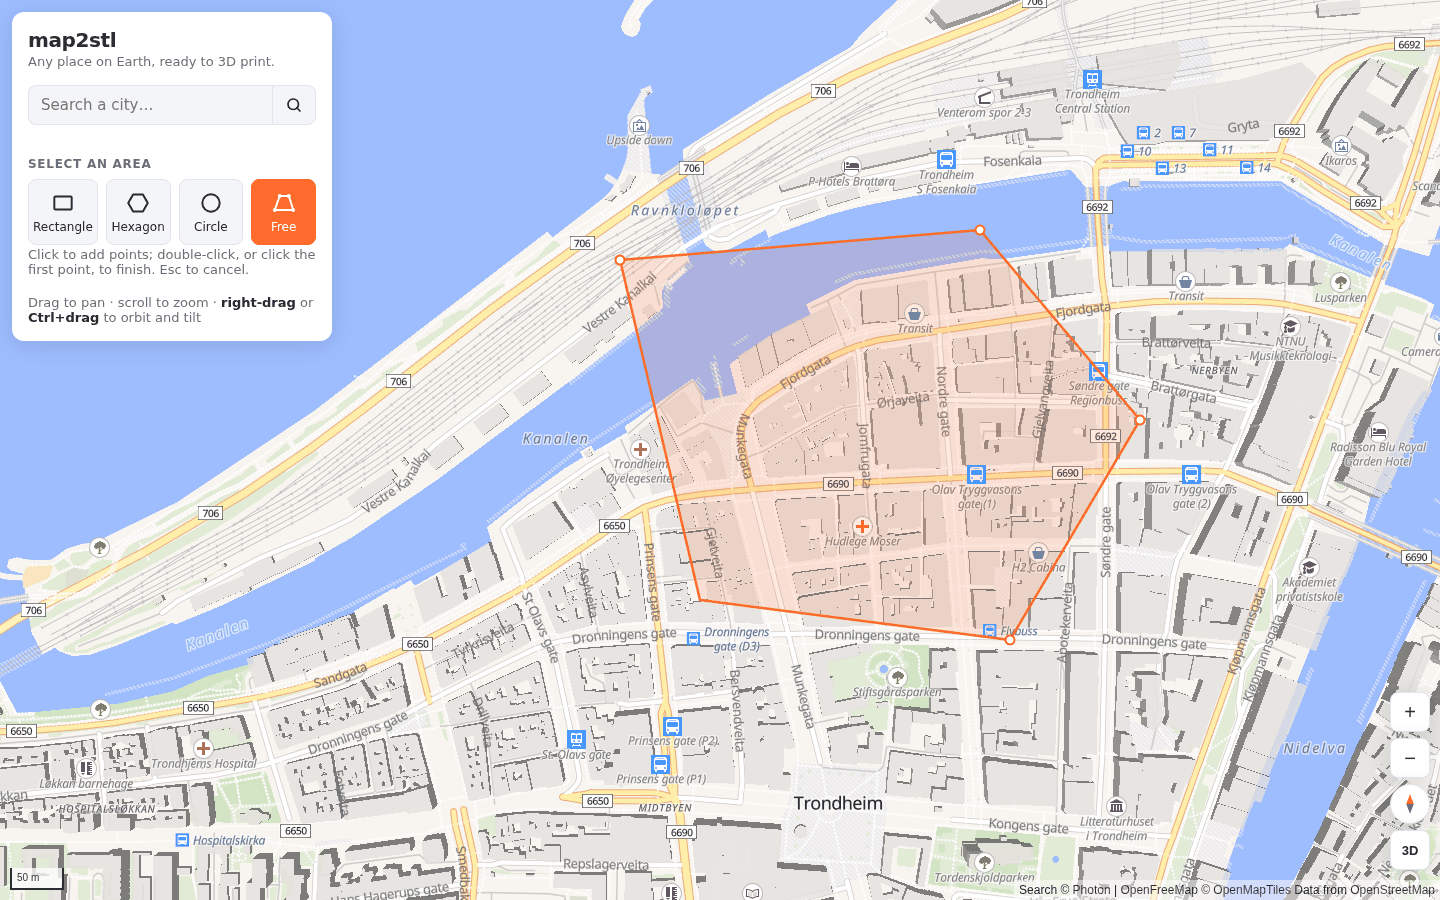
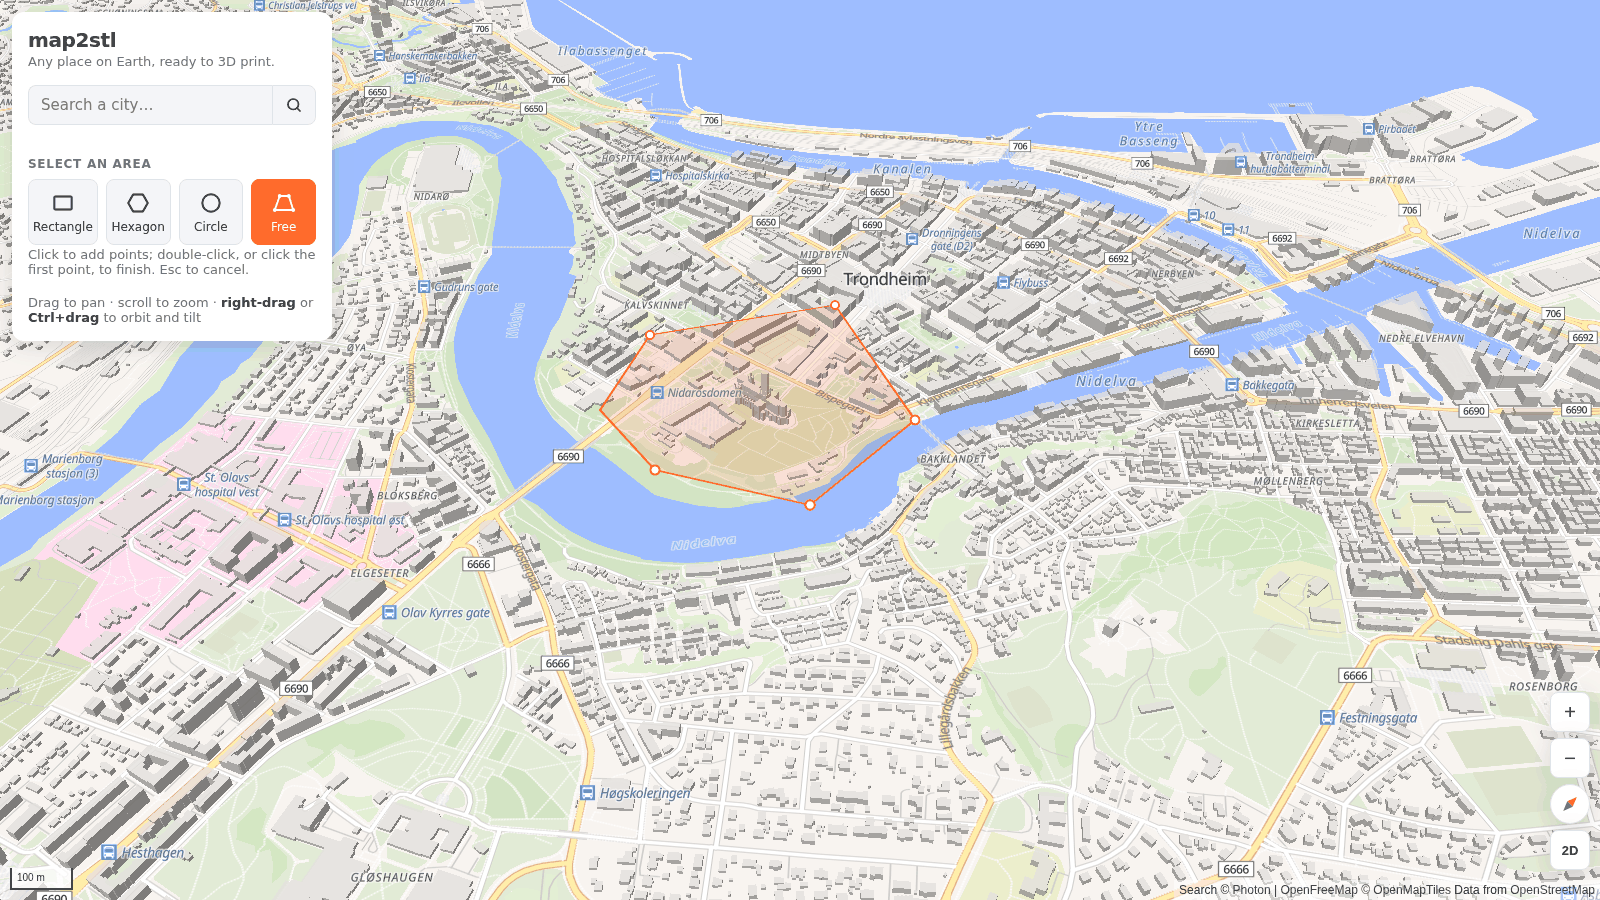
Release 0.4.0: README walkthrough of Nidarosdomen, object editing
README rewritten around one example, the hexagon over Nidarosdomen and the
Nidelva loop in Trondheim, with new screenshots of every step; the guide
documents editing all object kinds. Grouped buildings now show the name of
the whole building instead of their first named part. Bridge decks are
delete-only.

diff --git a/src/viewer/viewer.ts b/src/viewer/viewer.ts
@@ -344,9 +344,11 @@ export class Viewer {
       const from = { height: 'tagged', levels: 'from floors', estimate: 'estimated' }[tallest.heightFrom];
       const roof = tallest.roofShape && tallest.roofShape !== 'flat' ? `${tallest.roofShape} roof` : 'flat roof';
       const count = parts.length > 1 ? ` · ${parts.length} parts` : '';
-      return { key, title: parts.find((b) => b.name)?.name ?? 'Unnamed building', info: `${m(tallest.height)} (${from}) · ${roof}${count}`, canSize: true, canHeight: true };
+      return { key, title: parts[0].groupName ?? parts.find((b) => b.name)?.name ?? 'Unnamed building', info: `${m(tallest.height)} (${from}) · ${roof}${count}`, canSize: true, canHeight: true };
     }
     const area = osm.structureAreas.find((s) => s.id === key);
+    // A bridge deck spans between banks: resizing it would lift it off them.
+    if (area?.kind === 'bridge') return { key, title: 'Bridge deck', info: 'Deck outline', canSize: false, canHeight: false };
     if (area) return { key, title: nice(area.kind), info: m(area.height), canSize: true, canHeight: true };
     const wall = osm.structureLines.find((s) => s.id === key);
     if (wall) return { key, title: nice(wall.kind), info: `${m(wall.height)} tall`, canSize: false, canHeight: true };

diff --git a/src/osm.ts b/src/osm.ts
@@ -25,8 +25,9 @@ export interface Building extends Polygon {
   roofColour?: string;
   name?: string;
   // For building:parts, the outline they belong to: a cathedral's nave, towers and spires
-  // are selected and edited together.
+  // are selected and edited together, under the outline's name.
   group?: string;
+  groupName?: string;
 }
 
 export interface Line {
@@ -235,7 +236,7 @@ export function parse(elements: OverpassElement[], ring: LngLat[]): OsmData {
     if (!owner) continue;
     covered.add(owner);
     part.group = owner.id;
-    part.name ??= owner.name;
+    part.groupName = owner.name;
   }
   data.buildings = [...outlines.filter((o) => !covered.has(o)), ...parts];
 

diff --git a/README.md b/README.md
@@ -3,13 +3,13 @@
 **Pick any place on Earth and turn it into a 3D-printable model.**
 
 Search a city, draw the area you want, and map2stl downloads its buildings, terrain, water,
-roads and greenery from open data, shows them in 3D, and lets you remove or enlarge buildings
-before printing.
+roads and greenery from open data, shows them in 3D, and lets you remove, enlarge or
+stretch any object before printing.
 
-![The 3D view of Trondheim's harbor: terrain tile with the sea, river, bridges, rail yard, buildings with pitched roofs and trees](docs/screenshots/01-3d-view.png)
+![Nidarosdomen and the Nidelva river loop in Trondheim, as a 3D tile: the cathedral, old town, bridges, parks and trees](docs/screenshots/01-3d-view.png)
 
 > **Status:** work in progress. Selecting an area, downloading the data, the 3D view and
-> building editing work today. **Export to STL / 3MF is the next milestone** (see the
+> object editing work today. **Export to STL / 3MF is the next milestone** (see the
 > [roadmap](ROADMAP.md)).
 
 ## Features
@@ -19,12 +19,12 @@ before printing.
 - **Four selection shapes**: rectangle, hexagon, circle, or a free shape you click point by
   point. Move, resize and rotate them with handles.
 - **Quick version in seconds**, detailed version in under a minute: buildings with real
-  heights, roof shapes and colors, bridges, piers, walls, towers, roads, rails, water
-  (including the sea), parks and single trees.
+  heights, roof shapes and colors, multi-part landmarks, bridges, piers, walls, towers,
+  roads, water (including the sea), parks and single trees.
 - **3D preview** of the model as it will be printed: a terrain tile cut exactly to your
-  shape, everything trimmed at the edge, with layer toggles and height exaggeration.
-- **Edit buildings**: click one to delete it, or enlarge a landmark so it stands out in the
-  print.
+  shape, everything trimmed at the edge, with layer toggles and height multipliers.
+- **Edit objects**: click a building, tree, bridge or structure to delete it, enlarge it,
+  or stretch its height, so a cathedral or a tower stands out in the print.
 
 ## Quick start
 
@@ -44,46 +44,53 @@ static web server.
 
 ## How to use it
 
+The walkthrough below models the heart of Trondheim, Norway: Nidarosdomen cathedral and the
+old town inside the loop of the Nidelva river.
+
 ### 1. Find the place and select an area
 
-Search a city in the box at the top left, or pan and zoom the map. Pick a shape and drag on
-the map: rectangles from corner to corner, hexagons and circles from the center outward.
-Shapes follow the current view, so rotate the map first if you want the area tilted.
+Search **Trondheim** in the box at the top left. Pick **Hexagon** and drag from the center
+outward. Shapes follow the current view, so rotate the map first (right-drag) if you want
+the area tilted: this hexagon was drawn on a map turned 44°, and it covers 1.34 km².
 
 Afterwards, drag the handles: **center** moves the shape, **corner** resizes it, **top**
 rotates it. Click outside the shape to clear it.
 
-![A circle selected over Trondheim's harbor, with the move, resize and rotate handles](docs/screenshots/02-select-area.png)
+![A hexagon over Nidarosdomen and the Nidelva loop, with the move, resize and rotate handles and the size, area and rotation in the panel](docs/screenshots/02-select-area.png)
 
 For any other outline, choose **Free**: click point by point, then double-click (or click
-the first point) to close it.
+the first point) to close it. Here, just the cathedral grounds:
 
-![A free shape being drawn point by point over Trondheim's old town](docs/screenshots/03-free-shape.png)
+![A free shape being drawn point by point around the cathedral grounds](docs/screenshots/03-free-shape.png)
 
 ### 2. Fetch the 3D data
 
-Press **Fetch 3D data**. A quick version from the map tiles appears in a couple of seconds.
-The detailed version (roof shapes, trees, walls, parking…) follows, usually in 30–90 s,
-with an estimate of the time left, and replaces the quick version in place.
+Press **Fetch 3D data**. A quick version from the map tiles appears in a couple of seconds,
+so you can already look around. The detailed version (roof shapes, the cathedral's 161
+parts, trees, walls, parking…) follows, usually in 30–90 s, with an estimate of the time
+left, and replaces the quick one in place.
 
-![The quick version shown on the map while the detailed data downloads, with the time left](docs/screenshots/04-quick-data-loading.png)
+![The quick version on the map while the detailed data downloads, with about 35 s left](docs/screenshots/04-quick-data-loading.png)
 
-Each category gets a checkbox and a count. Uncheck what you don't want in the model.
+Each category gets a checkbox and a count: here 1,666 buildings, 1,362 roads and paths,
+1,265 trees. Uncheck what you don't want in the model.
 
-![The detailed data previewed on the map: buildings, bridges, piers, roads, water, parks and trees](docs/screenshots/05-data-preview.png)
+![The detailed data on the map: buildings, bridges, roads, the river, parks and trees inside the hexagon](docs/screenshots/05-data-preview.png)
 
 ### 3. Look at it in 3D
 
-Press **Open 3D view**. Left-drag to orbit, right-drag to pan, scroll to zoom. The sliders
-exaggerate the terrain and the buildings; the checkboxes hide layers.
+Press **Open 3D view**. Left-drag to orbit, right-drag to pan, scroll to zoom. The two
+**height multipliers** exaggerate the terrain and the buildings; the checkboxes hide
+layers.
 
-### 4. Edit buildings
+### 4. Edit objects
 
-Click a building to select it. **Delete** removes it; **Size** enlarges it from its base
-(×1–4), handy for making a cathedral or a tower stand out. **Reset** and **Restore all**
-undo.
+Click an object to select it. **Delete** removes it; **Size** enlarges it from its base
+(×1–4); **Height only** stretches it vertically. Here Nidarosdomen (82 m spire, 161 parts,
+selected as one building) is enlarged ×1.5 so it stands out in the print. **Reset**,
+**Restore deleted** and **Reset all** undo.
 
-![A building selected in 3D and enlarged 2.5 times, with the edit panel](docs/screenshots/06-edit-building.png)
+![Nidarosdomen selected in 3D and enlarged 1.5 times, with the edit panel showing 82 m, pyramidal roof, 161 parts](docs/screenshots/06-edit-building.png)
 
 ### 5. Export *(coming next)*
 

diff --git a/docs/guide.md b/docs/guide.md
@@ -108,8 +108,8 @@ How heights are decided:
 Press **Open 3D view**. Three.js loads the first time, which takes a moment.
 
 - **Left-drag:** orbit. **Right-drag:** pan. **Scroll:** zoom.
-- **Terrain height** (×1–5) exaggerates the terrain; **Building height** (×0.5–3) everything
-  standing on it. Both rebuild the scene, which takes a moment on big areas (making them
+- **Terrain height multiplier** (×1–5) exaggerates the terrain; **Building height
+  multiplier** (×0.5–3) everything standing on it. Both rebuild the scene, which takes a moment on big areas (making them
   instant is on the roadmap).
 - The layer **checkboxes** work in 3D too.
 - **Back to map** returns to the map.
@@ -129,22 +129,28 @@ What you see:
 - **Everything is cut at the tile edge.** Buildings crossing it get a flat face and a flat
   roof there.
 
-## 5. Editing buildings
+## 5. Editing objects
 
-In the 3D view, **click a building** to select it. It gets an orange outline, and the panel
-shows its name, height (and whether it's tagged, from floors or estimated), roof and number
-of parts. Click empty space or press **Esc** to deselect.
+In the 3D view, **click a building, tree, bridge or structure** (pier, wall, tower, mast…)
+to select it. It turns orange, and the panel shows its name, height (and whether it's
+tagged, from floors or estimated), roof and number of parts. Click empty space or press
+**Esc** to deselect.
 
-- **Delete**, or the Delete key, removes it.
-- **Size** (×1–4) enlarges it from the center of its base: footprint, height and roof grow
-  together and it stays on the ground. **Reset** puts it back.
-- **Restore all** (under the 3D controls) brings back every deleted building.
-- A building made of several parts is selected and edited as one.
+| Control | Effect | Available for |
+|---|---|---|
+| **Delete** (or the Delete key) | Removes it | Everything |
+| **Size** ×1–4 | Enlarges it from the center of its base, all dimensions together | Buildings, trees, towers, piers |
+| **Height only** ×0.5–4 | Stretches it vertically, on top of Size | Buildings, trees, towers, piers, walls |
+| **Reset** | Puts this object back | Everything |
+
+- **Restore deleted** (under the 3D controls) brings back every deleted object.
+  **Reset all** clears every edit and puts both height multipliers back to their defaults.
+- A building made of several parts (Nidarosdomen has 161) is selected and edited as one,
+  under the name of the whole building.
 - Edits are applied before the cut at the tile edge, so an enlarged landmark is still
-  trimmed there.
-- Edits last until you fetch a new area; the export will use them.
-- On the quick version, editing waits for the detailed data, because building identities
-  change when it arrives.
+  trimmed there. They last until you fetch a new area; the export will use them.
+- Selecting waits for the detailed data: the quick version's buildings are split at tile
+  seams and have no parts, and their identities change when the detailed data arrives.
 
 ## Known limits
 

diff --git a/CHANGELOG.md b/CHANGELOG.md
@@ -7,16 +7,25 @@ and this project adheres to [Semantic Versioning](https://semver.org/spec/v2.0.0
 
 ## [Unreleased]
 
+## [0.4.0] - 2026-10-21
+
+Milestone 4: editing objects in the 3D view.
+
 ### Added
 
-- README with screenshots and a quick start, a user guide (`docs/guide.md`) and an
-  architecture overview (`docs/architecture.md`).
+- README walkthrough of Nidarosdomen in Trondheim with screenshots, a user guide
+  (`docs/guide.md`) and an architecture overview (`docs/architecture.md`).
 - **Object editing** (milestone 4): click a building, tree, bridge or structure (pier,
   wall, tower…) in the 3D view to select it, then delete it, enlarge it ×1–4 from its base
   (all dimensions), or stretch its height alone; Reset per object. Multi-part buildings are
   edited as one.
 - **Restore deleted** brings back deleted objects; **Reset all** clears every edit and puts
   both height multipliers back to their defaults.
+
+### Fixed
+
+- A multi-part building shows the name of the whole building (Nidarosdomen), not of its
+  first named part.
 
 ### Changed
 
